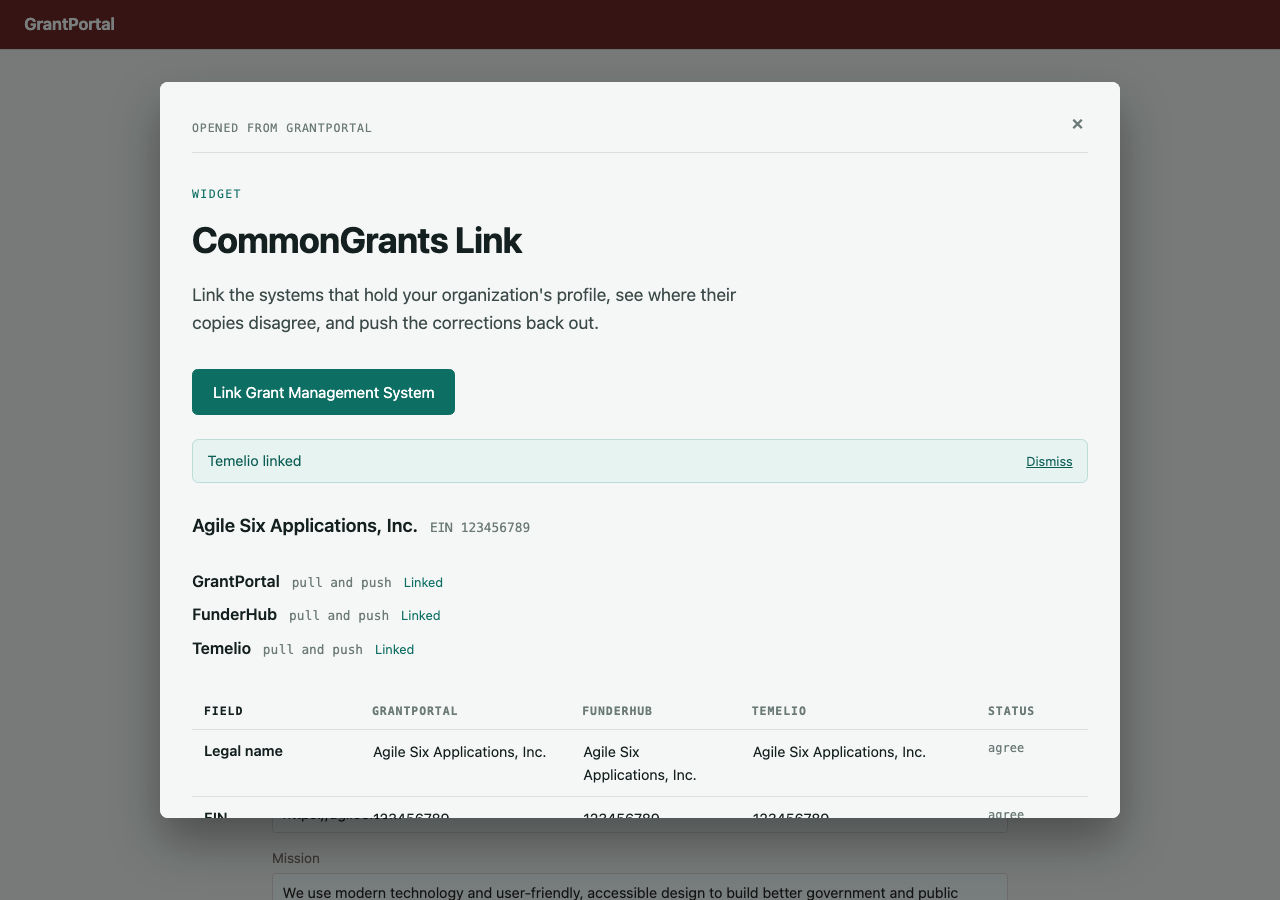
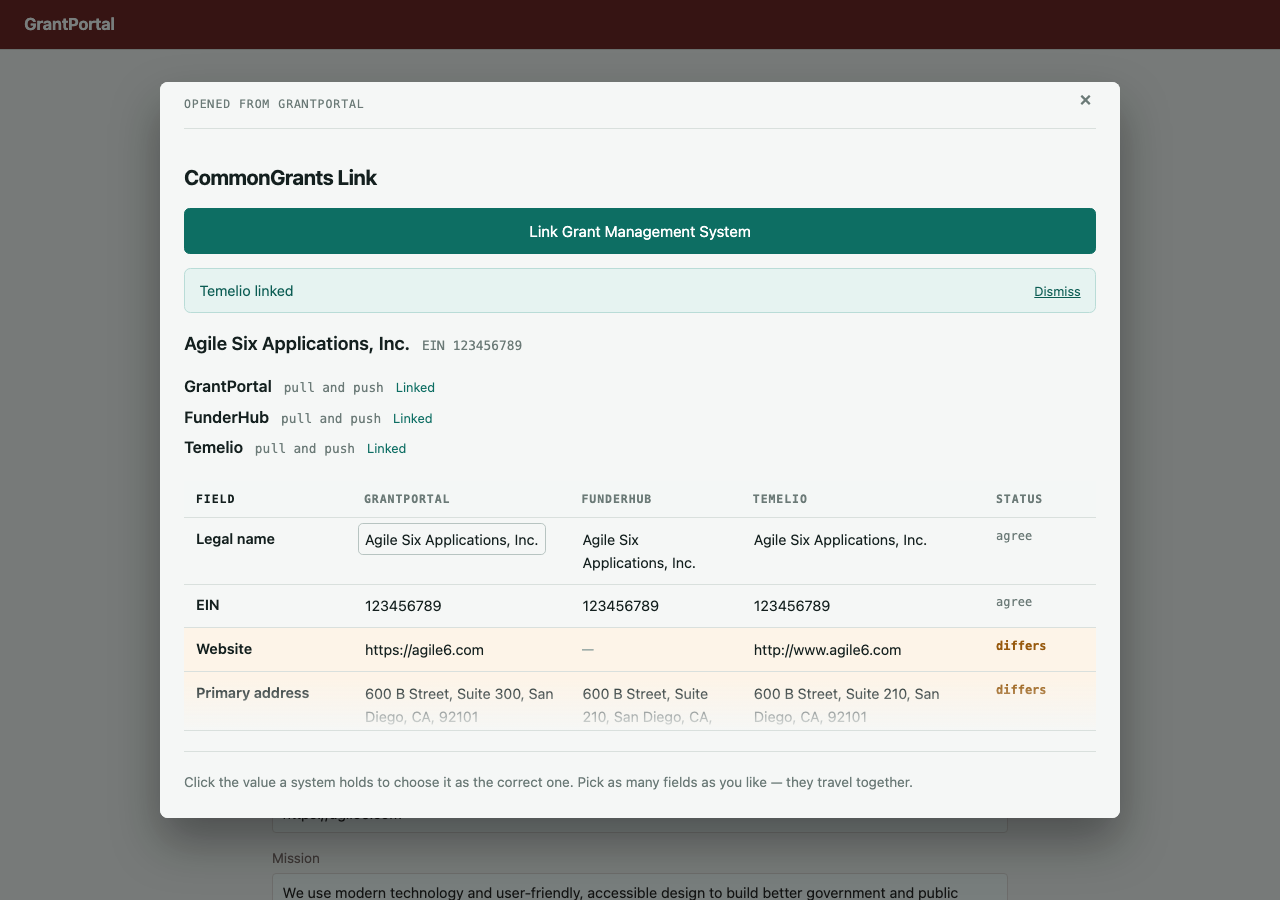
fix(link): make the embedded widget a column, so only the grid scrolls
`embed.js` sizes the overlay at `min(46rem, 92vh)` and it cannot grow. The
widget was a page that ran as long as it liked inside it, so the frame took the
overflow — and once the grid gained a scroller of its own, reaching a row meant
scrolling the frame and *then* scrolling the grid. Two gestures for one lookup.

Embedded, `main` is now a flex column fixed to the frame's height: the chrome
keeps its natural size, the grid absorbs what is left, and the panel under it
stays on screen. `ComparisonGrid` takes a `fill` prop for this — a prop rather
than the page reaching in through `:global`, so both ways the grid can be sized
are stated where the grid is. In `fill` mode its own `max-height` gives way to
whatever the column allots, with a `12rem` floor so a long panel cannot squeeze
the comparison down to nothing.

`box-sizing: border-box` is load-bearing: with the default the padding is added
to `100dvh` and the column ends up taller than the frame, which put the panel
and its Sync button just below the fold — measured at 726px in a 662px frame.

Making the column flex was only half of it. The title block, the tagline and
the spacing between the chips came to roughly 650px of a 736px frame, which
left the grid a row and a half however the height was divided. So the embedded
chrome is condensed: the eyebrow and the tagline go, the heading shrinks, the
margins tighten. Nothing is hidden that cannot be read on the widget's own
[…]

diff --git a/apps/link/src/routes/+page.svelte b/apps/link/src/routes/+page.svelte
@@ -953,6 +953,7 @@
       canAdd={canAddSource}
       onpick={pick}
       onadd={openPicker}
+      fill={embedded}
     />
 
     <section class="panel" data-testid="panel">
@@ -1138,6 +1139,79 @@
     max-width: 56rem;
     margin: 0 auto;
     padding: 4rem 1.5rem;
+  }
+
+  /*
+     Embedded, the widget is a column in a fixed box rather than a page that
+     runs as long as it likes. `embed.js` sizes the overlay at
+     `min(46rem, 92vh)` and cannot grow, so a document taller than that used to
+     scroll the iframe — and once the grid gained a scroller of its own, that
+     became scrolling the frame and *then* scrolling the grid to reach a row.
+
+     So: the chrome keeps its natural height, the grid takes what is left, and
+     the panel stays on screen. The Sync button is the last thing anyone does
+     here, and having to scroll to find it is the thing this layout removes.
+  */
+  main[data-embedded="true"] {
+    display: flex;
+    flex-direction: column;
+
+    /* `border-box`, or the padding is added to `100dvh` and the column ends up
+       taller than the frame it is meant to fit — which puts the panel, and the
+       Sync button in it, just below the fold. */
+    box-sizing: border-box;
+    height: 100dvh;
+    max-width: none;
+    padding: 2.5rem 1.5rem 1.5rem;
+
+    /* `auto`, not `hidden`. This layout is built so everything fits, but a
+       person with a long list of picks and a set of results under them can
+       still outgrow the frame — and scrolling the widget is what this used to
+       do anyway, where clipping would lose the controls outright. */
+    overflow: auto;
+  }
+  main[data-embedded="true"] > :not(.panel) {
+    flex: none;
+  }
+
+  /*
+     The panel keeps its natural height and the grid takes what is left, rather
+     than the other way round: a grid one row shorter costs a scroll in a thing
+     that already scrolls, where a panel that shrinks hides controls.
+  */
+  main[data-embedded="true"] > .panel {
+    flex: 0 0 auto;
+    margin-top: 1.25rem;
+  }
+
+  /*
+     Condensed chrome, so there is something left for the grid to absorb.
+     Making the column flex is only half the fix: the title block, the tagline
+     and the spacing between the chips came to roughly 650px of a 736px frame,
+     which left the grid a row and a half however the height was divided.
+
+     What goes is what the overlay already says another way. The host bar names
+     the system whose page this is, and someone who clicked **Open Link** on
+     their own profile does not need the standalone page's onboarding copy.
+     Nothing here is hidden that cannot be read on the widget's own page.
+  */
+  main[data-embedded="true"] .role,
+  main[data-embedded="true"] .tagline {
+    display: none;
+  }
+  main[data-embedded="true"] h1 {
+    margin: 0 0 0.9rem;
+    font-size: 1.3rem;
+  }
+  main[data-embedded="true"] .banner {
+    margin-top: 0.9rem;
+  }
+  main[data-embedded="true"] .linked-org {
+    margin-top: 1rem;
+  }
+  main[data-embedded="true"] .chips {
+    margin: 1rem 0 1.25rem;
+    gap: 0.3rem;
   }
   .role {
     margin: 0 0 0.5rem;

diff --git a/e2e/specs/embedded.spec.ts b/e2e/specs/embedded.spec.ts
@@ -167,6 +167,52 @@ test("a sync inside the frame updates the host page without reloading it", async
   );
 });
 
+test("embedded, the grid is the only thing that scrolls", async ({ page }) => {
+  // The overlay cannot grow — `embed.js` sizes it at `min(46rem, 92vh)` — so
+  // something has to give when seven compared fields will not fit. The answer
+  // is the grid, which has a scroller of its own. What must *not* happen is
+  // both: scrolling the frame to reach the grid and then scrolling the grid to
+  // reach a row is two gestures for one lookup, and it is what this layout
+  // exists to remove.
+  await page.goto(PROFILE.portal);
+  await expect(page.getByTestId("profile")).toHaveAttribute("data-ready", "true");
+
+  const widget = await openLinkOver(page);
+
+  await connectInFrame(page, widget, "portal", ADMIN_EMAIL, PORTAL_ORG_ID);
+  await connectInFrame(page, widget, "funderhub", ADMIN_EMAIL, FUNDERHUB_ORG_ID);
+  await expect(widget.getByTestId("grid")).toBeVisible();
+
+  const layout = await widget.locator("body").evaluate(() => {
+    const scrolls = (el: Element | null) => (el ? el.scrollHeight > el.clientHeight + 1 : null);
+    const main = document.querySelector('[data-testid="widget"]');
+
+    return {
+      embedded: main?.getAttribute("data-embedded"),
+      columnScrolls: scrolls(main),
+      gridScrolls: scrolls(document.querySelector('[data-testid="grid-scroller"]')),
+      panelVisible:
+        (document.querySelector('[data-testid="panel"]')?.getBoundingClientRect().bottom ??
+          Infinity) <= window.innerHeight,
+    };
+  });
+
+  // Standalone none of this applies, so the whole test would be vacuous.
+  expect(layout.embedded, "the widget does not know it is embedded").toBe("true");
+
+  // Which of the two scrolls is the entire point, and both halves are load-
+  // bearing: before this layout the grid ran to its full height and the *frame*
+  // took the overflow, so a row cost one scroll; after the grid gained a
+  // scroller of its own it briefly cost two. The grid scrolls, the column does
+  // not.
+  expect(layout.gridScrolls, "the grid is not the scroller").toBe(true);
+  expect(layout.columnScrolls, "the frame scrolls as well as the grid").toBe(false);
+
+  // And the panel under the grid — where Sync lives — is on screen rather than
+  // pushed below the fold by a grid that took all the room.
+  expect(layout.panelVisible, "the panel is below the fold of the overlay").toBe(true);
+});
+
 test("an edit on GrantPortal, pushed from the frame, lands on FunderHub's own page", async ({
   page,
 }) => {

diff --git a/apps/link/src/lib/components/ComparisonGrid.svelte b/apps/link/src/lib/components/ComparisonGrid.svelte
@@ -44,9 +44,21 @@
 
     /** Called when the invitation column is clicked, to open the picker. */
     onadd: () => void;
+
+    /**
+     * Take the height a flex parent gives us instead of capping our own.
+     *
+     * Embedded, the widget is a column inside an overlay iframe and the grid is
+     * the part that should absorb whatever is left over — so the fixed
+     * `max-height` that keeps a standalone grid from running off the page is
+     * the wrong rule there, and would make the frame scroll *and then* the grid.
+     * A prop rather than the page reaching in through `:global`, so the two
+     * ways this grid can be sized are both stated here.
+     */
+    fill?: boolean;
   }
 
-  let { comparison, selections, canAdd, onpick, onadd }: Props = $props();
+  let { comparison, selections, canAdd, onpick, onadd, fill = false }: Props = $props();
 
   /**
    * The systems that get a column: the ones this person actually connected.
@@ -91,7 +103,7 @@
   }
 </script>
 
-<div class="grid-frame">
+<div class="grid-frame" class:fill>
   <div class="scroller" data-testid="grid-scroller">
     <table data-testid="grid">
       <thead>
@@ -179,6 +191,26 @@
   .scroller {
     max-height: 26rem;
     overflow-y: auto;
+  }
+
+  /* `min-height: 0` on both: a flex item's default floor is its content, which
+     for a table is every row — without this the grid refuses to shrink and
+     pushes the panel below it off the bottom of the frame. */
+  .grid-frame.fill {
+    flex: 1 1 auto;
+
+    /* A floor rather than `0`: the grid should yield space to the panel, but a
+       comparison squeezed to two rows is not one anybody can read. Past this
+       the column outgrows the frame and scrolls — which costs the chrome above,
+       not the grid, and the Sync button is pinned either way. */
+    min-height: 12rem;
+    display: flex;
+    flex-direction: column;
+  }
+  .grid-frame.fill .scroller {
+    flex: 1 1 auto;
+    min-height: 0;
+    max-height: none;
   }
 
   /*
